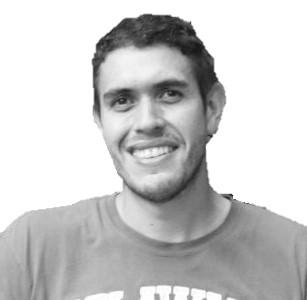
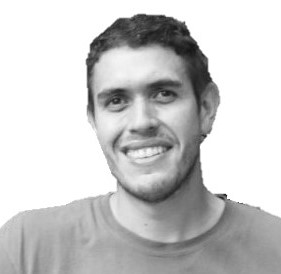
Improved the mobile version

diff --git a/somospie/index.html b/somospie/index.html
@@ -82,7 +82,7 @@
                     <div id="slide-logo-container">
                         <div id="slide-logo-inner-container">
                             <div id="slide-logo-images-container">
-                                <img src="images/logos/logo_white.png" height="210">
+                                <img src="images/logos/logo_white.png" height="95">
                             </div>
                             <!--<img src="images/slider/logo-name.png" class="slider-name" alt="slider image">-->
                         </div>
@@ -481,7 +481,7 @@
                         <div class="team-single-wrapper">
                             <div class="team-single">
                                 <div class="person-thumb">
-                                    <img src="images/about/ricardo.jpg" class="img-responsive" alt="">
+                                    <img src="images/about/ricardo.jpg" class="img-responsive" alt="" height="95%">
                                 </div>
                                 <div class="social-profile">
                                     <ul class="nav nav-pills">
